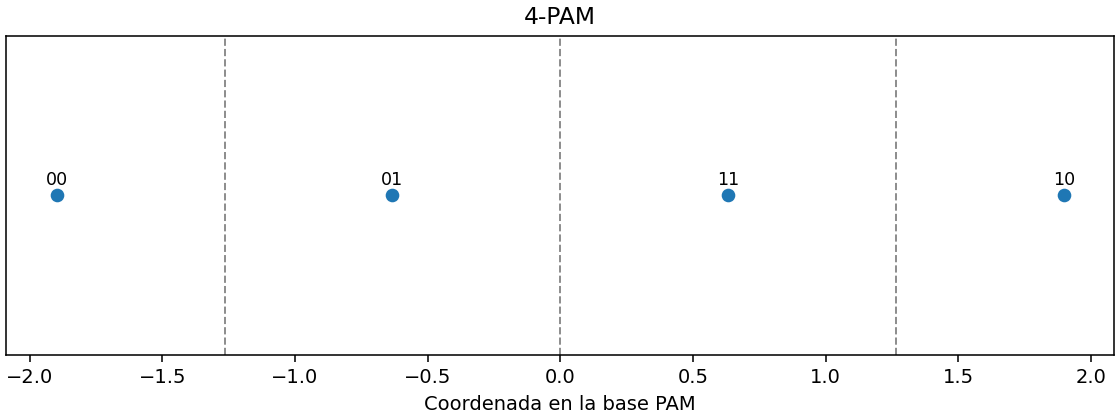
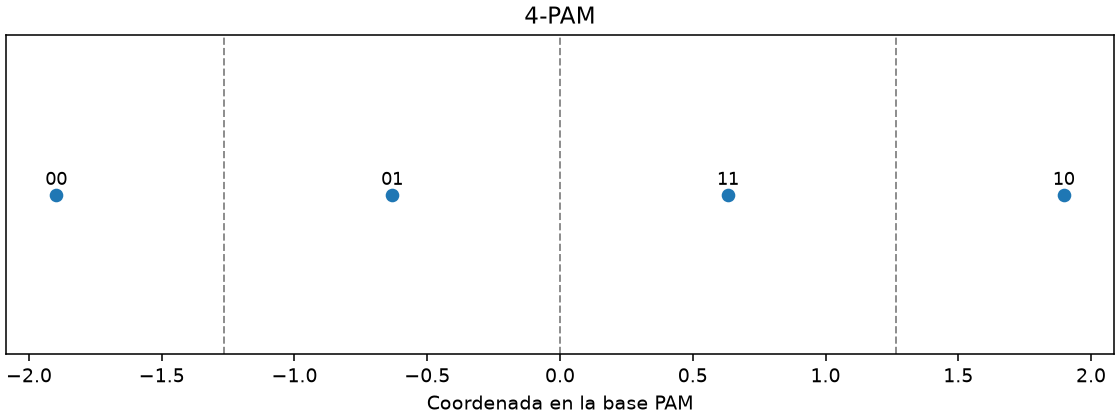
Histograma rehecho con muchos martin fierro

diff --git a/main.py b/main.py
@@ -33,7 +33,7 @@ from transmitter.modulation import modulation
 
 CHANNEL_EB_N0_DB = 12.0
 CHANNEL_NOISE_SEED = 42
-CHANNEL_CODING_ENABLED = False
+CHANNEL_CODING_ENABLED = True
 
 
 def _default_simulation_config() -> SimulationConfig:

diff --git a/res/modulation_info.md b/res/modulation_info.md
@@ -1,7 +1,7 @@
 # Datos para el informe de modulación y canal
 
-- Entrada: `res/textito.txt` (1171 caracteres).
-- Bits codificados con Huffman: 5264.
+- Entrada: `res\muchos_martin_fierro.txt` (4111388 caracteres).
+- Bits codificados con Huffman: 19468580.
 - Configuración de los gráficos y la corrida con ruido: 4-PAM Gray.
 - Energía nominal de bit Eb = 1 en unidades normalizadas y tasa de código = 1.
 
@@ -13,9 +13,9 @@ Las probabilidades teóricas corresponden a AWGN a 6 dB, con símbolos equiproba
 | Esquema | M | Es teórica | Eb teórica | Es estimada | Eb estimada | SER teórica | BER Gray | BER binaria |
 | --- | ---: | ---: | ---: | ---: | ---: | ---: | ---: | ---: |
 | PAM | 2 | 1 | 1 | 1 | 1 | 0.00238829078 | 0.00238829078 | 0.00238829078 |
-| PAM | 4 | 2 | 1 | 1.85775076 | 0.92887538 | 0.0557426126 | 0.0278713278 | 0.037161731 |
-| PAM | 8 | 3 | 1 | 2.7563121 | 0.918770701 | 0.250418 | 0.0838167831 | 0.131056643 |
-| PAM | 16 | 4 | 1 | 3.65728589 | 0.914321473 | 0.506680626 | 0.14113988 | 0.216829233 |
+| PAM | 4 | 2 | 1 | 1.88249604 | 0.941248021 | 0.0557426126 | 0.0278713278 | 0.037161731 |
+| PAM | 8 | 3 | 1 | 2.77097812 | 0.923659374 | 0.250418 | 0.0838167831 | 0.131056643 |
+| PAM | 16 | 4 | 1 | 3.69378975 | 0.923447437 | 0.506680626 | 0.14113988 | 0.216829233 |
 | FSK | 2 | 1 | 1 | 1 | 1 | 0.0230071389 | 0.0230071389 | 0.0230071389 |
 | FSK | 4 | 2 | 1 | 2 | 1 | 0.00666417174 | 0.00444278116 | 0.00444278116 |
 | FSK | 8 | 3 | 1 | 3 | 1 | 0.00176008949 | 0.00100576542 | 0.00100576542 |
@@ -43,9 +43,9 @@ La tabla de errores para esta configuración usa la corrida con AWGN descrita en
 
 | Magnitud | Teórica | Estimada |
 | --- | ---: | ---: |
-| Es (símbolo de modulación) | 2 | 1.85775075988 |
-| Ec (bit de canal) | 1 | 0.928875379939 |
-| Eb (bit de información) | 1 | 0.928875379939 |
+| Es (símbolo de modulación) | 2 | 1.88249604234 |
+| Ec (bit de canal) | 1 | 0.941248021171 |
+| Eb (bit de información) | 1 | 0.941248021171 |
 
 Energías expresadas en unidades normalizadas.
 
@@ -53,8 +53,8 @@ Energías expresadas en unidades normalizadas.
 
 | Magnitud | Referencia teórica (AWGN) | Estimada (simulación) |
 | --- | ---: | ---: |
-| SER | 0.0557426126393 | 0.0623100303951 |
-| BER | 0.0278713278452 | 0.0311550151976 |
+| SER | 0.0557426126393 | 0.0570432974567 |
+| BER | 0.0278713278452 | 0.0285216487284 |
 
 Las probabilidades son adimensionales. La referencia teórica supone
 símbolos equiprobables y recepción coherente, antes de decodificar el canal.
@@ -63,19 +63,19 @@ símbolos equiprobables y recepción coherente, antes de decodificar el canal.
 
 | Etiqueta | Cantidad | Probabilidad observada |
 | --- | ---: | ---: |
-| 00 | 553 | 0.210106382979 |
-| 01 | 686 | 0.260638297872 |
-| 11 | 747 | 0.283814589666 |
-| 10 | 646 | 0.245440729483 |
+| 00 | 2037892 | 0.209351889044 |
+| 01 | 2455480 | 0.252250549347 |
+| 11 | 2769108 | 0.284469437422 |
+| 10 | 2471810 | 0.253928124188 |
 
 ## E. Muestras a la entrada del receptor
 
 - Canal AWGN a 6 dB. Semilla del generador: 42.
 - N0 = 0.251188643. Varianza del ruido por coordenada: 0.125594322.
-- Símbolos transmitidos y evaluados para la SER: 2632.
-- Bits recuperados tras demodular: 5264.
+- Símbolos transmitidos y evaluados para la SER: 9734290.
+- Bits recuperados tras demodular: 19468580.
 - Bits descartados al modular: 0.
-- Bits errados para la BER: 164 de 5264.
+- Bits errados para la BER: 555276 de 19468580.
 - La figura muestra 400 muestras recibidas, seleccionadas de la corrida completa.
 
 ![Constelación recibida de 4-PAM con AWGN a 6 dB](modulation_info.received.png)
